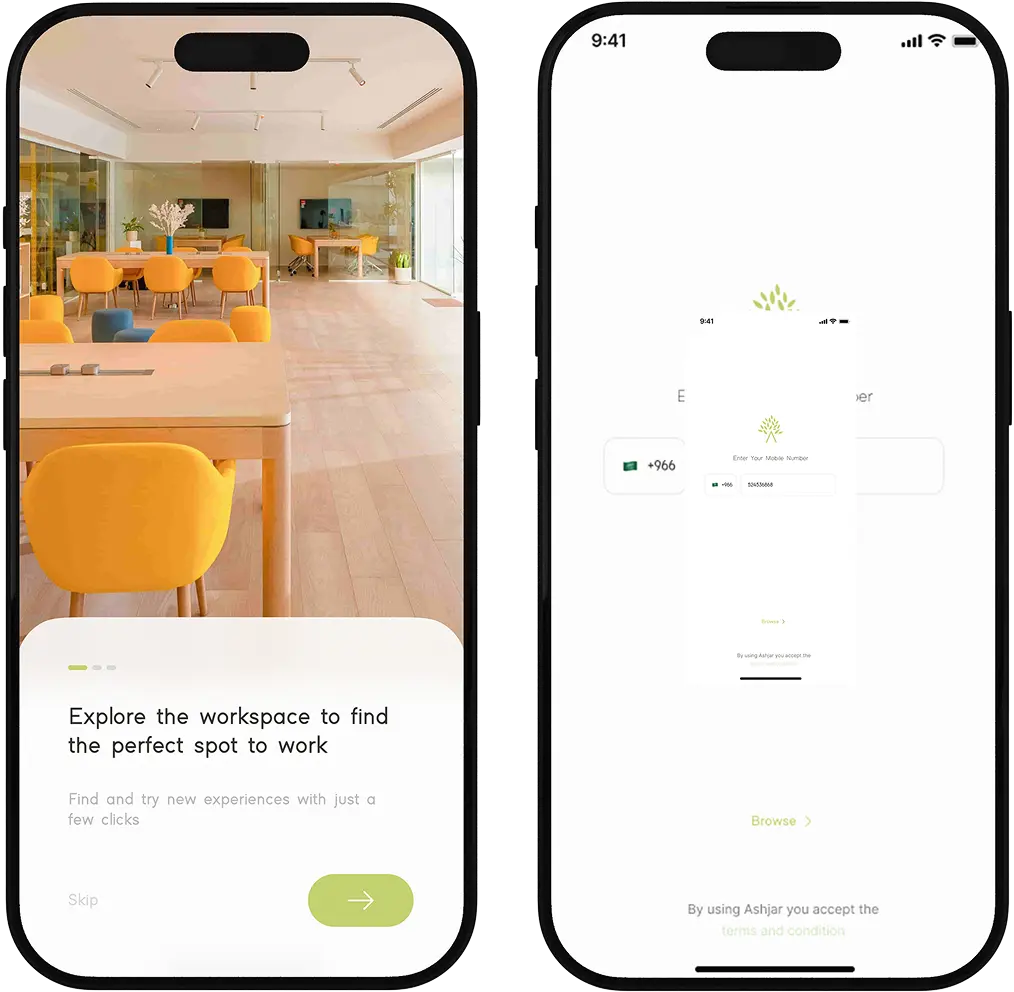
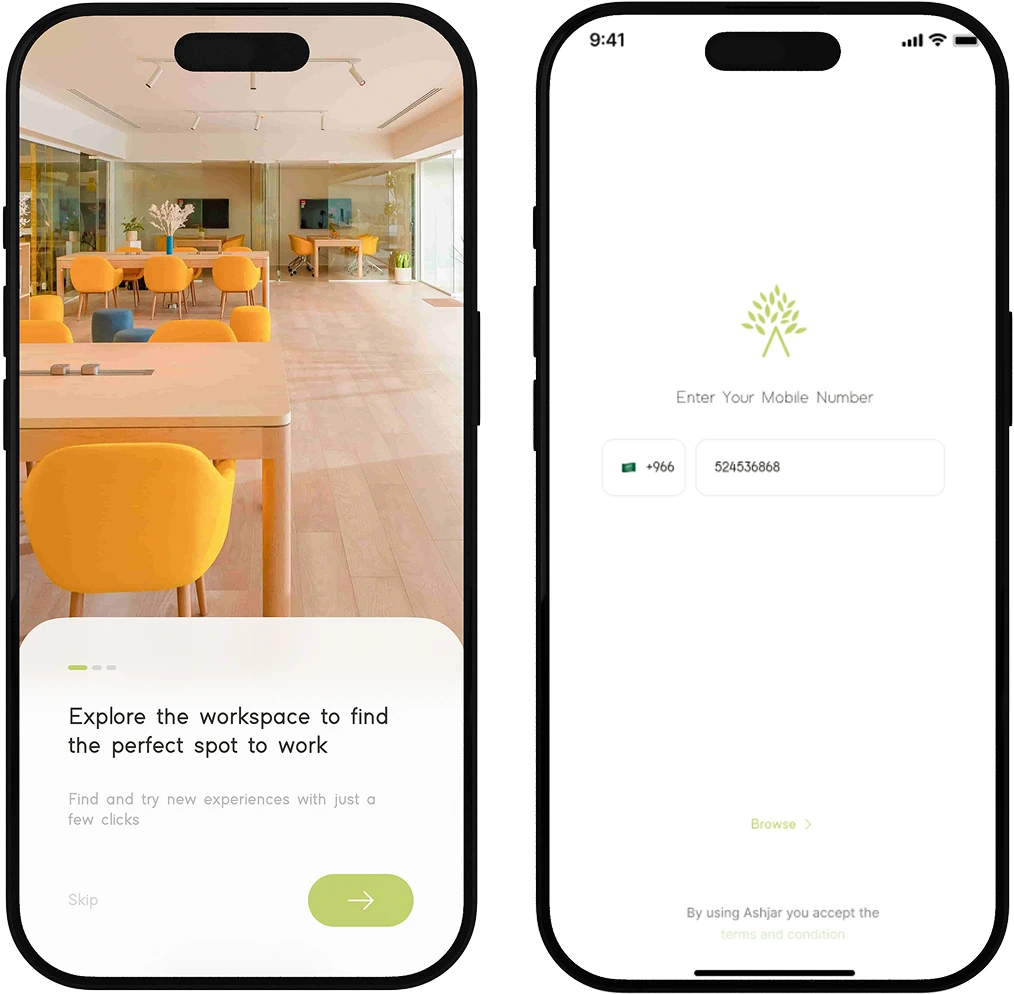
Images for AshjarSpace , halMmilliom , RealEstate , Send

diff --git a/src/data/portfolioDetailsData.js b/src/data/portfolioDetailsData.js
@@ -104,6 +104,7 @@ const portfolioDetails = [
         title: "Send App - Gifts that Feel Personal",
         subtitle: "Personalized gifts in just a few taps.",
         image: "/images/portfolioDetails/send/topBg.webp",
+        imageAr: "/images/portfolioDetails/send/topBgAr.webp",
         appStoreLinks: {
           ios: "https://apps.apple.com/gb/app/ashjar/id6474177129?uo=2",
           android:
@@ -128,6 +129,7 @@ const portfolioDetails = [
         title: "Project Goals",
         image: {
           url: "/images/portfolioDetails/send/projectGoals.webp",
+          urlAr: "/images/portfolioDetails/send/projectGoalsAr.webp",
         },
         goals: [
           {
@@ -167,6 +169,7 @@ const portfolioDetails = [
             maxTitleWidth: 563,
             images: {
               url: "/images/portfolioDetails/send/feature1.webp",
+              urlAr: "/images/portfolioDetails/send/feature1Ar.webp",
               width: 248,
               height: 507,
             },
@@ -176,6 +179,7 @@ const portfolioDetails = [
             maxTitleWidth: 505,
             images: {
               url: "/images/portfolioDetails/send/feature2.webp",
+              urlAr: "/images/portfolioDetails/send/feature2Ar.webp",
               width: 248,
               height: 507,
             },
@@ -202,6 +206,7 @@ const portfolioDetails = [
         title: "Ashjar Space - Where Calm Lives.",
         subtitle: `Beautiful, functional spaces for modern minds to meet, create, and collaborate.`,
         image: "/images/portfolioDetails/ashjarSpace/topBg.webp",
+        imageAr: "/images/portfolioDetails/ashjarSpace/topBgAr.webp",
         appStoreLinks: {
           ios: "https://apps.apple.com/sa/app/ashjar-space/id6476087387",
           android:
@@ -226,6 +231,7 @@ const portfolioDetails = [
         title: "Project Goals",
         image: {
           url: "/images/portfolioDetails/ashjarSpace/projectGoals.webp",
+          urlAr: "/images/portfolioDetails/ashjarSpace/projectGoalsAr.webp",
         },
         goals: [
           {
@@ -265,6 +271,7 @@ const portfolioDetails = [
             maxTitleWidth: 398,
             images: {
               url: "/images/portfolioDetails/ashjarSpace/feature1.webp",
+              urlAr: "/images/portfolioDetails/ashjarSpace/feature1Ar.webp",
               width: 507,
               height: 496,
             },
@@ -274,6 +281,7 @@ const portfolioDetails = [
             maxTitleWidth: 525,
             images: {
               url: "/images/portfolioDetails/ashjarSpace/feature2.webp",
+              urlAr: "/images/portfolioDetails/ashjarSpace/feature2Ar.webp",
               width: 507,
               height: 496,
             },
@@ -300,6 +308,7 @@ const portfolioDetails = [
         subtitle:
           "Half Million is more than just a coffee chain — it's a local movement brewing community, quality, and innovation across Saudi Arabia. With a passion for delivering handcrafted coffee with speed and precision, Half Million connects coffee lovers to their favorite brews through convenient pickup, curbside service, and reliable delivery. Whether you're on the move or taking a moment to unwind, Half Million makes exceptional coffee effortlessly accessible.",
         image: "/images/portfolioDetails/halfMillion/topBg.webp",
+        imageAr: "/images/portfolioDetails/halfMillion/topBgAr.webp",
         appStoreLinks: {
           ios: "https://apps.apple.com/in/app/half-million-%D9%87%D8%A7%D9%81-%D9%85%D9%84%D9%8A%D9%88%D9%86/id1559864940",
           android:
@@ -323,6 +332,7 @@ const portfolioDetails = [
         title: "Project Goals",
         image: {
           url: "/images/portfolioDetails/halfMillion/projectGoals.webp",
+          urlAr: "/images/portfolioDetails/halfMillion/projectGoalsAr.webp",
         },
         goals: [
           {
@@ -350,7 +360,7 @@ const portfolioDetails = [
       execution: {
         image: "/images/portfolioDetails/halfMillion/execution.webp",
         description:
-          "Half Million is a proudly homegrown coffee brand, built for a new generation of Saudi coffee lovers.  With a commitment to flavor, community, and digital-first convenience, we designed their digital ecosystem to empower fast orders, rich loyalty experiences, and a consistently excellent brew—no matter where you order from.",
+          "Half Million is a proudly homegrown coffee brand, built for a new generation of Saudi coffee lovers. With a commitment to flavor, community, and digital-first convenience, we designed their digital ecosystem to empower fast orders, rich loyalty experiences, and a consistently excellent brew—no matter where you order from.",
         descriptionBackground: "#86C5B1",
       },
       featuresOverview: {
@@ -362,6 +372,7 @@ const portfolioDetails = [
             maxTitleWidth: 342,
             images: {
               url: "/images/portfolioDetails/halfMillion/feature1.webp",
+              urlAr: "/images/portfolioDetails/halfMillion/feature1Ar.webp",
               width: 507,
               height: 499,
             },
@@ -371,6 +382,7 @@ const portfolioDetails = [
             maxTitleWidth: 379,
             images: {
               url: "/images/portfolioDetails/halfMillion/feature2.webp",
+              urlAr: "/images/portfolioDetails/halfMillion/feature2Ar.webp",
               width: 507,
               height: 498,
             },
@@ -534,7 +546,7 @@ const portfolioDetails = [
               "We needed a human-first interface that makes people feel safe and supported. Every detail, from visuals to content, had to inspire users to act — and return.",
           },
           {
-            title: " Scalable Infrastructure for High-Impact Screening",
+            title: "Scalable Infrastructure for High-Impact Screening",
             description:
               "ScreenMe is built to support large-scale, real-time screening workflows with maximum efficiency. From automated risk assessments to streamlined appointment scheduling.",
           },
@@ -766,6 +778,7 @@ Get started with ScreenMe in just a few taps.  Create your profile, schedule y
         title: "Takween — Find Your Space, Live Your Dream",
         subtitle: "Discover homes that match your lifestyle, effortlessly.",
         image: "/images/portfolioDetails/realEstate/topBg.webp",
+        imageAr: "/images/portfolioDetails/realEstate/topBgAr.webp",
         appStoreLinks: {
           ios: "",
           android: "",
@@ -787,6 +800,8 @@ Get started with ScreenMe in just a few taps.  Create your profile, schedule y
         title: "Project Goals",
         image: {
           url: "/images/portfolioDetails/realEstate/projectGoals.webp",
+          urlAr: "/images/portfolioDetails/realEstate/projectGoalsAr.webp",
+
         },
         goals: [
           {
@@ -825,6 +840,7 @@ Get started with ScreenMe in just a few taps.  Create your profile, schedule y
             maxTitleWidth: 487,
             images: {
               url: "/images/portfolioDetails/realEstate/feature1.webp",
+              urlAr: "/images/portfolioDetails/realEstate/feature2Ar.webp",
               width: 242,
               height: 500,
             },
@@ -834,6 +850,7 @@ Get started with ScreenMe in just a few taps.  Create your profile, schedule y
             maxTitleWidth: 399,
             images: {
               url: "/images/portfolioDetails/realEstate/feature2.webp",
+              urlAr: "/images/portfolioDetails/realEstate/feature1Ar.webp",
               width: 234,
               height: 483,
             },

diff --git a/src/components/portfolio/Details/ProjectGoalsSection.jsx b/src/components/portfolio/Details/ProjectGoalsSection.jsx
@@ -5,7 +5,7 @@ import { Col, Container, Row } from "react-bootstrap";
 import { useTranslation } from "react-i18next";
 
 const ProjectGoalsSection = ({ data }) => {
-  const { t } = useTranslation();
+  const { t , i18n: { language } } = useTranslation();
   const { title, image, goals = [] } = data || {};
 
   return (
@@ -19,7 +19,7 @@ const ProjectGoalsSection = ({ data }) => {
           {/* LEFT COLUMN */}
           <div className="img_section d-lg-none">
             <Image
-              src={image.url}
+              src={ language == 'en' ? image.url : (image?.urlAr ?? image?.url)}
               width={image.width || 228}
               height={image.height || 466}
               alt={t("Project Illustration")}
@@ -45,7 +45,7 @@ const ProjectGoalsSection = ({ data }) => {
             <Col style={{ maxWidth: 328 }}>
               <div className="img_section d-none d-lg-block">
                 <Image
-                  src={image.url}
+              src={ language == 'en' ? image.url : (image?.urlAr ?? image?.url)}
                   width={image.width || 228}
                   height={image.height || 466}
                   alt={t("Project Illustration")}

diff --git a/src/data/portfolioData.js b/src/data/portfolioData.js
@@ -36,6 +36,7 @@ const portfolios = [
     caseStudyLink: "ashjar-space",
     imageDetails: {
       image: "ashjarSpace",
+      imageAr: "ashjarSpaceAr",
       imageWidth: 548,
       imageHeight: 405,
     },
@@ -58,7 +59,7 @@ const portfolios = [
       imageHeight: 362,
     },
     background: "linear-gradient(100.28deg, #FFFFFF -53.98%, #ABDBFF 133.6%)",
-    backgroundAr: "linear-gradient(100deg, #ABDBFF , FFFFFF)",
+    backgroundAr: "linear-gradient(100deg, #ABDBFF , #FFFFFF)",
 
   },
   {
@@ -77,6 +78,7 @@ const portfolios = [
     caseStudyLink: "send",
     imageDetails: {
       image: "send",
+      imageAr: "sendAr",
       imageWidth: 480,
       imageHeight: 419,
     },
@@ -99,6 +101,7 @@ const portfolios = [
     caseStudyLink: "half-million",
     imageDetails: {
       image: "halfMillion",
+      imageAr: "halfMillionAr",
       imageWidth: 466,
       imageHeight: 431,
     },
@@ -140,6 +143,7 @@ const portfolios = [
     caseStudyLink: "real-estate",
     imageDetails: {
       image: "realEstate",
+      imageAr: "realEstateAr",
       imageWidth: 537,
       imageHeight: 362,
     },

diff --git a/src/components/portfolio/Details/TopSection.jsx b/src/components/portfolio/Details/TopSection.jsx
@@ -5,7 +5,7 @@ import { useTranslation } from "react-i18next";
 
 const TopSection = ({ data }) => {
   const { t, i18n: { language } } = useTranslation();
-  const { background, appStoreLinks, title, subtitle, image, textArAlign } = data || {};
+  const { background, appStoreLinks, title, subtitle, image, textArAlign ,imageAr } = data || {};
 
   return (
     <div className="top_section" style={{ background }}>
@@ -72,7 +72,7 @@ const TopSection = ({ data }) => {
             <div className="right_section">
               {image && (
                 <Image
-                  src={image}
+                  src={language == 'en' ?  image : (imageAr ?? image)}
                   width={550}
                   height={467}
                   alt={t("Ashjar Friend background image")}

diff --git a/src/components/portfolio/Details/FeaturesOverview.jsx b/src/components/portfolio/Details/FeaturesOverview.jsx
@@ -5,7 +5,7 @@ import { Container, Row } from "react-bootstrap";
 import { useTranslation } from "react-i18next";
 
 const FeaturesOverview = ({ data }) => {
-  const { t } = useTranslation();
+  const { t , i18n: { language } } = useTranslation();
   const {
     title,
     titleMaxWidth,
@@ -33,7 +33,7 @@ const FeaturesOverview = ({ data }) => {
                   <div key={`${title}-${index}`} className="single_feature">
                     {images?.url && (
                       <Image
-                        src={images?.url}
+                        src={language == 'en' ? images?.url : (images.urlAr ?? images.url) }
                         width={images?.width}
                         height={images?.height}
                         alt={t(title)}

diff --git a/src/components/portfolio/PortfoliosSection.jsx b/src/components/portfolio/PortfoliosSection.jsx
@@ -99,7 +99,7 @@ const PortfoliosSection = () => {
               </div>
               <div className="right">
                 <Image
-                  src={`/images/portfolio/${imageDetails.image}.png`}
+                  src={`/images/portfolio/${language == 'en' ?  imageDetails.image : (imageDetails.imageAr ?? imageDetails.image) }.png`}
                   width={imageDetails.imageWidth}
                   height={imageDetails.imageHeight}
                   alt={`${title} Preview`}
